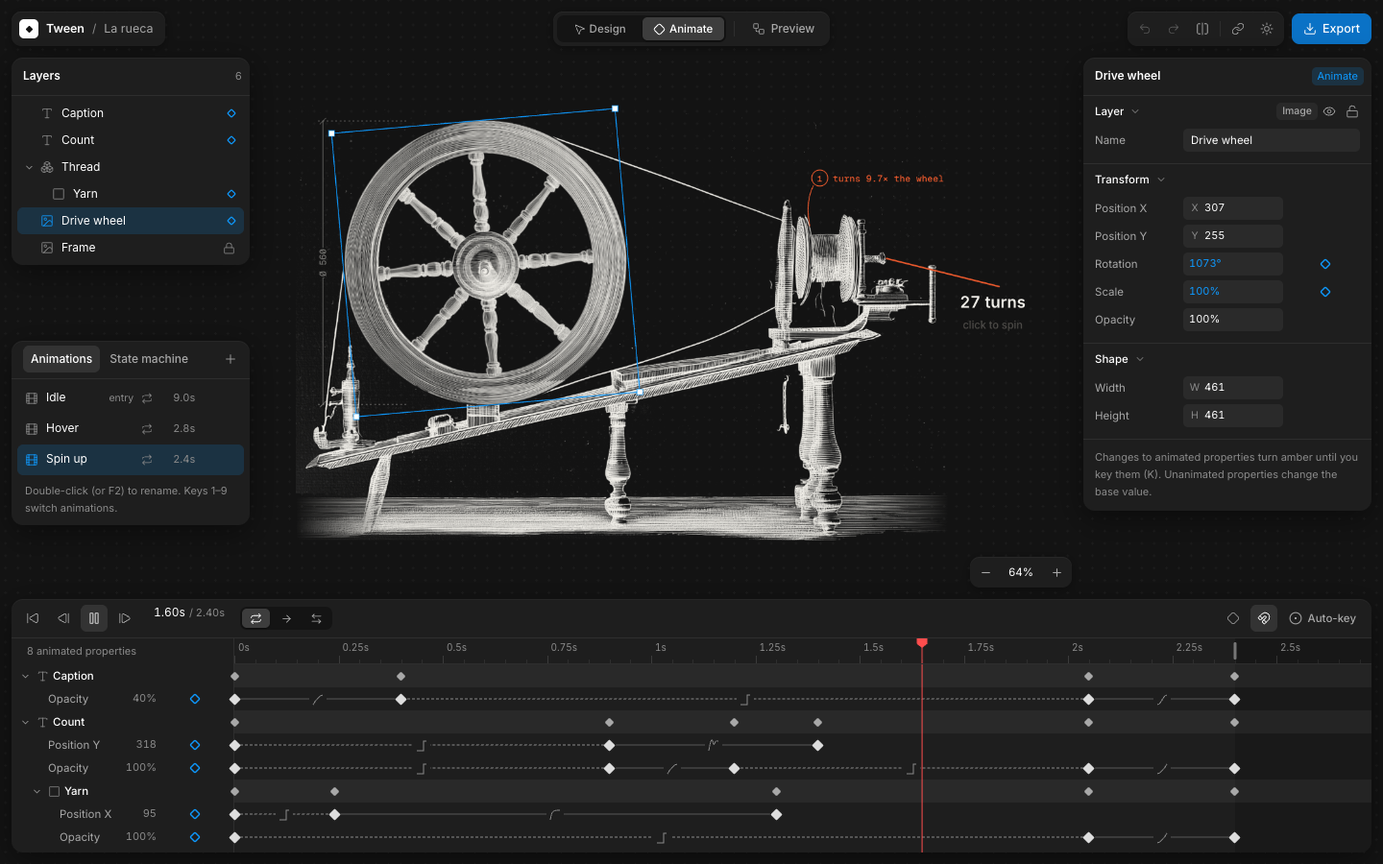
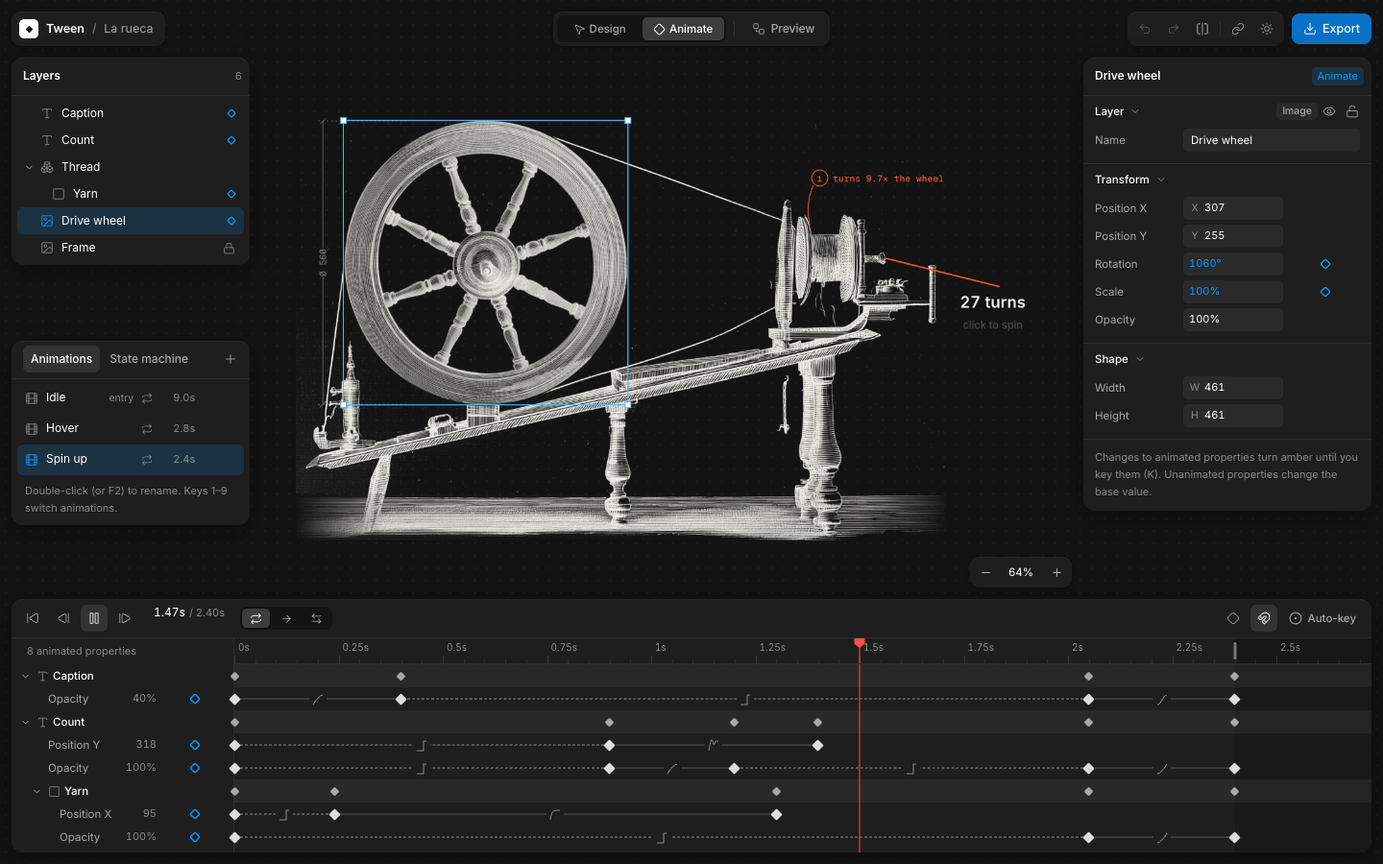
Animate: upright selection box on spinning objects; Cielo selection via a scoped --signal token on the scene (no hex in chrome code)

Changed region(s): [[0.25, 0.1244, 0.4688, 0.4978], [0.4375, 0.4356, 0.4688, 0.4667]]

diff --git a/src/shells/animate/SceneView.tsx b/src/shells/animate/SceneView.tsx
@@ -171,8 +171,13 @@ export function LiveScene({ svgRef }: { svgRef: React.RefObject<SVGSVGElement | 
     const el = sel && !preview ? (svg.querySelector(`[data-content="${sel}"]`) as SVGGraphicsElement | null) : null
     if (!el) { poly.setAttribute('visibility', 'hidden'); handles.current?.setAttribute('visibility', 'hidden'); return }
     const b = el.getBBox()
-    const m = el.getCTM()
+    let m = el.getCTM()
     if (!m) return
+    // a spinning object keeps an upright box: drop its own rotation, keep position, scale and every parent transform
+    const o = doc.objects.find((x) => x.id === sel)
+    const holder = el.parentElement as unknown as SVGGraphicsElement | null
+    const outer = (holder?.parentElement as unknown as SVGGraphicsElement | null)?.getCTM()
+    if (o?.spin && outer && r[o.id]) m = outer.translate(num(r[o.id].x), num(r[o.id].y)).scale(num(r[o.id].scale))
     const pts = [[b.x, b.y], [b.x + b.width, b.y], [b.x + b.width, b.y + b.height], [b.x, b.y + b.height]].map(([x, y]) => new DOMPoint(x, y).matrixTransform(m))
     poly.setAttribute('points', pts.map((q) => `${q.x},${q.y}`).join(' '))
     poly.setAttribute('visibility', 'visible')
@@ -237,9 +242,9 @@ export function LiveScene({ svgRef }: { svgRef: React.RefObject<SVGSVGElement | 
       <SceneSVG doc={doc} r={r} inputs={inputs} bg={[v.bgTop, v.bgBottom]} bare interactive={!preview} onObjectDown={onObjectDown} svgRef={svgRef} ghosts={ghosts} ghostOf={sel}>
         {!preview && <PenMarks doc={doc} r={r} />}
         <g data-overlay pointerEvents="none">
-          <polygon ref={outline} fill="none" stroke="var(--signal)" strokeWidth={1.5} vectorEffect="non-scaling-stroke" visibility="hidden" />
+          <polygon ref={outline} fill="none" stroke="var(--signal)" strokeWidth={2} vectorEffect="non-scaling-stroke" visibility="hidden" />
           <g ref={handles} visibility="hidden">
-            {[0, 1, 2, 3].map((i) => <rect key={i} fill="#fff" stroke="var(--signal)" strokeWidth={1} vectorEffect="non-scaling-stroke" />)}
+            {[0, 1, 2, 3].map((i) => <rect key={i} fill="#fff" stroke="var(--signal)" strokeWidth={1.5} vectorEffect="non-scaling-stroke" />)}
           </g>
         </g>
       </SceneSVG>

diff --git a/src/shells/animate/index.tsx b/src/shells/animate/index.tsx
@@ -13,7 +13,7 @@ import { KeyTimeline, type KeyLane } from '@kit/timeline/KeyTimeline'
 import { KeyButton, KeyDiamond } from '@kit/ui/key-button'
 import { EaseGlyph, EasingEditor } from '@kit/ui/easing'
 import { PROPS, PROPS_FOR, childrenOf, keyAt, objHasKeys, resolve, toCSSKeyframes, trackKey, type Anim, type Obj, type PropKey } from './engine'
-import { drawCanvas, inlineImages, loadImages } from './demo'
+import { CIELO, drawCanvas, inlineImages, loadImages } from './demo'
 import { LiveScene } from './SceneView'
 import { AnimInspector } from './AnimInspector'
 import { InputsList, StateMachineGraph, TransitionsList } from './local/StateMachinePanel'
@@ -531,7 +531,7 @@ export default function AnimateShell() {
       }>
         {/* no artboard: the plate sits straight on the canvas, its inks following the theme */}
         <div className="absolute [--plate-ink:#181411] [--plate-measure:rgba(24,20,17,.42)] [--plate-mute:#6E6A64] dark:[--plate-ink:#F3F1EB] dark:[--plate-measure:rgba(243,241,235,.42)] dark:[--plate-mute:#A39E96]"
-          style={{ left: 0, top: 0, width: doc.width, height: doc.height }} data-studio-artifact="">
+          style={{ left: 0, top: 0, width: doc.width, height: doc.height, '--signal': CIELO } as React.CSSProperties} data-studio-artifact="">
           <LiveScene svgRef={svgRef} />
         </div>
       </Stage>

diff --git a/src/shells/animate/demo.ts b/src/shells/animate/demo.ts
@@ -16,6 +16,8 @@ import { bindText, childrenOf } from './engine'
 const B = import.meta.env.BASE_URL
 export const ART = { frame: `${B}demo/animate/frame.webp`, wheel: `${B}demo/animate/wheel.webp` }
 const NOGAL = '#181411', MUTED = '#6E6A64', ACHIOTE = '#E8582C'
+/** the selection on the plate: set as --signal on the scene wrapper, so only the plate's selection is Cielo */
+export const CIELO = '#5DB4E8'
 
 const E = {
   lin: { kind: 'bezier', p: [0, 0, 1, 1] } as Ease,

diff --git a/brand/RUECA.md b/brand/RUECA.md
@@ -1,0 +1,227 @@
+# Rueca: brand spec
+
+The one reference for anyone, human or agent, making something that looks like Rueca. When this file and an older note disagree, this file wins. `BRAND.md` keeps the history: the naming rounds, Trompo and the early wire styles.
+
+**Status tags:** **[decided]** Rafael chose it. **[trial]** live, but may change. **[proposed]** waiting on Rafael. **[open]** not decided yet. If you build on something tagged proposed or open, say so in your hand-off.
+
+Last updated 2026-10-11. Owner: `brand/RUECA.md` and `brand/lamina/` belong to the Branding agent session. `BRAND.md`, `data.js`, `index.html` and `rueca.js` belong to the Rueca branding continuation session. If a foundation here changes something the landing page already uses (tokens, type), tell that session so `src/landing/landing.css` and the board stay in step.
+
+---
+
+## 1. The idea
+
+**Rueca** is Spanish for spinning wheel: raw fibre goes in, thread comes out. The tool does the same: a prompt or a prototype goes in, and a real design tool comes out. **Tagline: "Spin up a real tool."** [decided]
+
+**Direction: Lámina técnica** [decided 2026-10-11]. Rueca explains itself the way an 18th-century encyclopaedia explained a spinning wheel: one exact drawing with every part named. The drawing is old; what the parts are is new. Moodboard: `brand/moodboards/` (board I).
+
+**The rule under everything: there is always a tension between old and new.** It starts in the foundations and carries on up through components, patterns, imagery and motion. Every layer has an old half and a new half, and a layout needs both. A page that's only old reads as a museum shop; a page that's only new reads as any other SaaS.
+
+| Layer | Old | New |
+|---|---|---|
+| Colour | Lana paper, Nogal walnut ink, Rubia, engraved hatching | Flat, chalky brights in blocks (Achiote, Cielo, Malva…) |
+| Type | Serif display (book face, light weights) | IBM Plex Sans (engineering-manual grotesque) · Geist Mono for commands |
+| Hand | La Belle Aurore red-pen notes | – (the hand belongs to neither; it's the person) |
+| Line | Engraved hatching, plate borders, lettered parts | Neutral measure-pen construction lines, dimension marks, part numbers |
+| Components | Plates, figure captions, title blocks | Buttons, chips, the install command line |
+| Patterns | The labelled plate, the build guide | The live tool, the shell, the canvas |
+| Imagery | Engravings (Midjourney, Diderot style) | Flat colour behind or around them, UI frames |
+| Motion | Lines are drawn like ink | Colour blocks wipe in like a product |
+
+## 2. Foundations
+
+### Colour [decided; ramps and surfaces live in code]
+
+| Token | Hex (light) | Dark | Role |
+|---|---|---|---|
+| **Lana** | `#F3F1EB` | ground in dark: `#151210` | Paper. It carries the layout. |
+| **Platino** | `#DCDAD5` | `#383430` | Chrome, quiet panels, the "Figma made in the 90s" nod |
+| **Nogal** | `#181411` | text in dark: `#F3F1EB` | Ink. All drawing, all text. |
+| **Rubia** | `#5E2219` | `#5E2219` | The deep colour. Use it instead of black for dark blocks. |
+| **Achiote** | `#E8582C` | `#F06A3E` | Lead bright: the CTA and the red pen |
+| Cochinilla | `#EE7A68` | `#F38B79` | Bright |
+| Malva | `#A88BF6` | `#B39AF8` | Bright |
+| Cielo | `#5DB4E8` | `#6FC0EE` | Bright |
+| Hoja | `#2FA57C` | `#3DB68B` | Bright |
+| Gualda | `#F2C744` | `#F5D05A` | Bright |
+| **Añil** | `#3440C8` | `#8C95F0` | **[open]** No longer the measure pen (2026-10-11); its role is unassigned. Never a fill. |
+
+Six of the names are natural dyes (achiote, cochinilla, gualda, rubia, añil, nogal), and lana is wool. That story can be told; weaving can't (see Don'ts).
+
+Rules:
+1. Paper carries the layout. Brights are **flat blocks, one or two per layout**. All six together only in mark/system moments.
+2. On a bright, text is **Nogal, never white**.
+3. Rubia is the dark, not black.
+4. Achiote is the CTA. Product previews and `[data-studio-embed]` fall back to the kit's neutral tokens, and **the tools stay blue**.
+5. Tonal ramps 50–900 per family are in `brand/data.js` (`ruecaRamps`); regenerate with `brand/tools/ramps.mjs`. The neutral "Tierra" ramp runs from Lana (50) to Nogal (900).
+6. Site surfaces are slightly de-tinted so the shells' neutral UI sits well. See `.site` in `src/landing/landing.css`. Light: field `#f3f1eb`, panel `#faf8f4`, control `#ece9e2`, fg `#181411`, muted `#58524d`. Dark: field `#151210`, panel `#201c19`, fg `#f3f1eb`, muted `#b9b3ac`.
+7. The coloured kickers are retired (2026-10-11). Sections are now labelled by **title strips** (§3), in ink, not brights.
+
+### Type
+
+| Role | Face | Status |
+|---|---|---|
+| Display | **"Rueca Display"**: `local()` **Signifier** (Klim, trial), falling back to Newsreader. Previously Martina Plantijn, with an Alegreya fallback. | Face [trial] · weight [decided] |
+| Body / UI | **IBM Plex Sans** (OFL, `@fontsource-variable/ibm-plex-sans`, `--font-body: "IBM Plex Sans Variable"`). It was born in IBM's engineering documentation, so it's the technical-manual voice; Libre Franklin read too heavy under the light display. Runner-up: Instrument Sans. | [decided 2026-10-11] |
+| Hand | **La Belle Aurore** 400 (OFL, `@fontsource/la-belle-aurore`, latin), a fine-nib 18th–19th-century hand. It replaced Caveat on 2026-10-11 (options: `brand/references/fonts/hand-lamina.html`). | [decided] |
+| Code | **Geist Mono**, for commands and code only | [decided] |
+
+- **Display weight: 300–500 and never bold** [decided 2026-10-11]. Lámina lives in the light-to-medium range; the default is 400 with `font-synthesis: none`. Tracking is −0.02 to −0.025em at large sizes.
+- Hero h1: `clamp(56px, 11.5vw, 136px)`, leading 0.82. Section h2s are set at −0.02em.
+- Free fallbacks if the Klim licence doesn't happen: **Newsreader** (the current fallback), or **Old Standard TT**, which fits Lámina best conceptually. The comparison sheet is `brand/references/fonts/martina-alts.html`.
+- Display is for headings, step numerals and plate titles. Plex is for everything you read or click. The hand is for notes and filled-in values only (the red pen, title-strip values, captions on dimension lines), never for body copy or buttons.
+- Sentence case everywhere.
+
+### Line: three pens, three jobs [decided]
+
+| Pen | Colour | Job |
+|---|---|---|
+| Ink | Nogal | Draws the thing: outlines, hatching, text |
+| Measure | **Neutral ink** (2026-10-11, was Añil): `--measure` rgba(24,20,17,.42) / dark rgba(243,241,235,.4); crosshairs `--cross` #aba9a6 / #5b5855; ruler ticks `--tick` .3 and `--tick-minor` .11 (`src/landing/plate.css`) | Construction circles, dimensions, grids, crosshairs, rulers |
+| Correct | Achiote | La Belle Aurore notes, leader lines to notes, ✗, the circled letters A–D |
+
+Weights carry the hierarchy: **object 1.4 · detail 0.8 · hairline 0.5**, and hidden edges are dashed. **Lines stay lines:** no gradients, glows or neon, and no fills except hatching and the one flat bright.
+
+### Mark [decided]
+
+Rafael's two-wheel logo: a drive wheel and a spindle whorl joined by the band (`brand/moodboards/rueca-logo.svg`, `src/landing/parts.tsx`). It's in colour (Gualda band, Cielo wheel, Achiote whorl) with a serif wordmark. The mark-only crop is `viewBox="0 0 310 218"`. For one-colour, emboss or deboss uses, mask it.
+- **Drawing: "I · Pulido"** [decided]. The file's mark rebuilt on true geometry (`brand/logo/`): one 25-unit band on the external tangents of the two centres, the whorl centred in its loop, gaps 22.5 (wheel) / 19.5 (whorl), bottoms level. At ≤24px a heavier cut takes over (band 34, gaps 19 / 15). Files: `brand/logo/rueca-mark.svg`, `-small.svg`, `-dyed.svg`, `-light.svg`; the site's `Mark` and `public/favicon.svg` use it. Regenerate from `brand/logo/marks.js`. The band's two rings need `fill-rule: evenodd`.
+- **Wordmark: outlined, built from the mark** [decided]. The word fills the band's inner box, as Rafael's file had it: baseline on the band's inner bottom edge, x-height up to its inner top, weight 450 (500 in the small cut) so it carries the discs' mass, half an x-height between mark and word, tracking −0.045em (−0.025em in the small cut) plus pair adjustments (r–u −8, e–c −14, c–a +6 thousandths of an em; `PAIRS` in the generator). (A first rule, x-height = the whorl's loop with stems matched to the band, read small and light.) `brand/tools/outline_rueca.py` writes `src/landing/logo.generated.ts` and `brand/logo/rueca-lockup-{signifier,newsreader}-{regular,small}[-light].svg`. **The site ships the Signifier outlines** (Rafael's call; he is buying the Klim licence). `SHIP` in the generator switches to Newsreader (OFL) if that falls through.
+- **[decided 2026-10-11]** The palette tokens are canonical. The logo file is a work in progress (its hues `#F0BF11`, `#41ADDB` and `#EB4D1D` are not brand colours), so never sample colours from it. Anything coloured uses Gualda, Cielo and Achiote.
+
+### Voice [decided, unchanged]
+
+A good studio tech: calm, exact, a little warm. Name the thing ("inspector, timeline, layers"). Write short, plain sentences in sentence case. Show, don't adjective. No exclamation marks, and none of "supercharge", "magic" or "AI-powered". Craft words are welcome if explained once. Credit the shoulders (Toolcraft, Base UI, shadcn). Full table: `BRAND.md` → Voice.
+
+## 3. Components
+
+| Component | Spec | Status |
+|---|---|---|
+| CTA | Achiote block, Nogal text, Plex 600 | [decided] |
+| Install command | Geist Mono in a quiet chip (`rgba(ink,.06)`), on one row with the CTA | [decided] |
+| Title strip | Each section opens with a strip like a drawing sheet's title block: printed small-caps fields (No. · Title · Sheet) with **handwritten values** (`<Hand>`, `var(--font-hand)`, which lean slightly as if filled in with a pen). `src/landing/plate.tsx` → `TitleStrip`, `Field`, `Hand`. It replaced the coloured kickers. | [decided 2026-10-11] |
+| Sheet layout | The landing is one drawing sheet: hairline rules with **neutral crosshairs** (`--cross`) where they meet, ruler ticks in the margins, engraved hatching in spare corners (`Sheet`, `Row`, `Cross`, `Hatch` in `plate.tsx` + `plate.css`). The footer is a title block. | [decided 2026-10-11] |
+| Dimension line | Measure pen (neutral `--measure`): end ticks, arrows and the measured width in the middle (`DimLine`). Used on the hero preview, with a handwritten caption. | [decided 2026-10-11] |
+| Figure / plate | Double-ruled frame, image or engraving inside, italic Plex caption "Fig. n · …" | [proposed] |
+| Part tag | Plex 9.5px tabular in a hairline box (`101`); quantity before it (`3×`) | [proposed] |
+| Lettered callout | Achiote circle with a La Belle Aurore letter, joined to its part by an Achiote leader | [decided in the moodboard] |
+| Title block | A row of cells: label in small caps, value below (project / shell / drawing / sheet / scale / drawn by) | [proposed] |
+| Step numeral | Display face, 400, large, in a panel's top-left corner | [proposed] |
+| Chips | Hairline pill on a 5% ink tint | [decided] |
+
+## 4. Patterns
+
+- **The plate** [decided]: one exact drawing with lettered parts, measure-pen construction lines, one or two red-pen notes and a figure caption. Letters A–D name the product's parts: A the skill, B the prompt, C the kit, D the twelve shells.
+- **The build guide** [live on the landing as *How it works*, 2026-10-11; `src/landing/art/StepArt.tsx`, generated from `brand/illustration-trials/anatomy/` (`steps.mjs`, `shared.mjs`)]: three isometric engraved plates on one harness tray. 1: a prompt card whose controls drop into an inspector. 2: a Cielo cartridge lowering into the slot. 3: a cursor dragging the Achiote fader cap. The new part in each plate is its one flat bright. (The earlier flat-pack study is `brand/lamina/manual/` sheet 3.)
+- **The spec sheet** [live on the landing as the kit cards, 2026-10-11; now isometric engravings, `src/landing/art/KitArt.tsx`]: each kit group is a drawn spec sheet with part tags and **one bright per group**: Controls Achiote, Layout Cielo, Time Gualda, Structure Malva, Working Hoja, Hand-off Cochinilla. The shells' artboards follow the same idea (§5, proposed).
+- **Exploded view** [live on the kit cards]: parts lift straight off their slots along one axis (on scroll or hover), leaving dashed ghosts and guides. It can also become a shell interaction ("Explode") [proposed].
+- **WheelField** [retired from the hero 2026-10-11; kept as a pattern study]: Rafael removed the hero background. `src/landing/WheelField.tsx` still exists, pending his call on deleting it. Spec, in case it returns as a pattern: the logo's two wheels are dash lattices whose dashes turn in place; the band is dashed contour rings (offset 15 + 18i + 0.8i²) whose dashes run like a belt at rim speed; faint ink (.18 light / .14 dark) behind a radial mask. Rafael rejected a whole rotating wheel, a fully abstract field and strings that only tilt.
+
+## 5. The wireframe style v3: "the manual" [proposed, awaiting Rafael]
+
+The placeholders inside the shells are the **only branded thing in the shells**, so they carry the brand into the product. v1 ("the harness, drawn") and v2 (drafting polish) treated them as wireframes. v3 treats them as a **flat-pack build guide or spec sheet**: every placeholder is a numbered part, every artboard is a sheet. Study: **`brand/lamina/manual/`** (`manual.js` holds the painters, `sheets.js` the sheets). **Polish rules:** `brand/manual-art-rules.md` has 14 rules distilled from IKEA, ISO 128 and illustration practice. `brand/manual-audit.ts` measures rendered SVGs against them. Follow both for any manual-style drawing.
+
+Rules:
+1. **Every placeholder is a part.** It has a number tag (101, 204), and repeats carry a quantity (3×). The number replaces the label.
+2. **Ink is built, colour is new.** Everything is Nogal line on Lana. The one part a step adds, or the primary action, is a flat bright, never more than one per sheet.
+3. **Line weight is the hierarchy** (1.4 / 0.8 / 0.5, hidden edges dashed). No fills except hatching and the one bright.
+4. **Text is engraved.** Headings are hatched bars, body copy is hairlines with a short last line. Use real words only where words are the point.
+5. **Pictures are plates.** An image slot is a double-ruled frame with an engraved shadow band and a "Fig." caption. Where a real picture helps, use the one **signature engraving** recoloured to Nogal (Cargo's trick: one picture, repeated).
+6. **Three pens, three jobs** (§2).
+7. **Wordless where possible.** Steps are display numerals, actions are arrows, and **the hand** stands in for IKEA's little man. Use ✓ in ink and ✗ in Achiote.
+8. **Every sheet is a document:** double-ruled frame, crop marks, parts list and title block.
+
+Part numbers: **1xx** placeholder parts (101 image, 102 signature image, 103 heading + body, 104 button, 105 avatar, 106 video, 107 chart, 108 icon, 109 empty slot, 110 the hand). **2xx** a shell's own assemblies. **3xx** build-guide steps (302 prompt, 304–306 controls). **4xx** kit components on the landing, by group: 41x Controls, 42x Layout, 43x Time, 44x Structure, 45x Working, 46x Hand-off. A sheet never has inner frames or crosshairs inside a drawing; the crosshairs belong to the sheet's rules.
+
+**Implementation, after approval:** these painters replace `wireImage`, `blankSheet` and `ditherTop` in `src/demo/wire.ts`. The dithered spinning top is retired, and the signature image becomes the engraved rueca. The 12 shells already call `src/demo/wire.ts` (wire rollout, uncommitted), so the swap is mostly in one file, plus shell-specific redraws. Coordinate with the OG agent session before touching `src/shells`.
+
+## 6. Illustration [proposed: both takes, each with a job]
+
+Rafael will draw or direct the final pictures. Both takes use the same subject list: the wheel at rest, the wheel exploded A–D, the flyer close-up, hands at the wheel, and modern tools drawn as plates.
+
+**Take A, isometric line** [exploring]: made with the **Anatomy** skill (`~/.claude/skills/anatomy`, shaded isometric solids with live readouts) and the **Hairline** skill (`~/.claude/skills/hairline-create`, single-stroke isometric line). Variations are in `brand/lamina/illustration/anatomy/` and `.../hairline/`.
+
+**Take B, true to the engravings** [exploring, strong]: Midjourney, using a **public-domain Diderot plate as the image style reference** instead of a code. It's stable because the URL is Wikimedia's:
+
+```
+<subject>, copperplate engraving, 18th-century encyclopedia technical plate, fine parallel hatching,
+single dark ink on warm off-white laid paper, small engraved letters labelling the parts, thin plate border,
+generous white space --no photograph, 3d render, color --ar 4:5 --seed 4417
+--sref https://upload.wikimedia.org/wikipedia/commons/thumb/a/a3/Textiles%3B_spinning-wheel_with_various_components_used_in_the_Wellcome_V0023697ER.jpg/1280px-Textiles%3B_spinning-wheel_with_various_components_used_in_the_Wellcome_V0023697ER.jpg
+```
+
+- It carries over to modern subjects: laptops and synthesizers come out as believable plates, and that's the old/new tension in one picture.
+- Adding the Eastgate plate as a second sref gives darker, more modelled wheels. The Diderot plate alone is crisper and airier.
+- `--sref random` missed both times (one photographic, one cartoon woodcut).
+- **Post-process every output:** recolour to Nogal ink on transparent (luminance → alpha, auto-levels, see `inked()` in `brand/lamina/manual/sheets.js`). That way it sits on Lana like a print and the measure pen and Achiote can draw on top.
+- Results so far: `brand/lamina/illustration/midjourney/`, prefixed b1–b3 by batch.
+
+**Isometric engravings, and pairing them with line** [proposed]: the Diderot sref pulls Midjourney toward flat side views, so for isometric, drop the sref and ask for the engraving in words:
+
+```
+true isometric projection of <subject> seen from above, 30 degree axonometric, like a patent drawing or an IKEA assembly diagram,
+copperplate engraving with fine parallel hatching, single black ink on white, isolated object on plain white, no floor
+--no photograph, 3d render, color, perspective, border, shadow --ar 4:3 --seed 4417
+```
+
+This puts Hairline's line and the engraving on the same 30° grid, so they can share one sheet (shared isometric axes in the measure pen): **line explains how it's built (new), the engraving shows what it is (old)**. In a build guide the steps are line, the final "assembled" panel is the engraving, and shared isometric axes in the measure pen tie them together. Study: `brand/lamina/illustration/` → "Line + engraving, same angle". The Hairline art is exported as SVG and recoloured to Nogal (`hairline/line-*-ink.svg`).
+
+**In the product: the animate shell's demo** [built 2026-10-11, the first shell in the hero]: the "1A" idea (the tool working on an old plate) made real. An engraved Saxony wheel, built from two Midjourney parts made one by one and upscaled: the frame with its wheel cut away, and a face-on drive wheel that turns on the same axle (`public/demo/animate/`, ink on transparent). It sits straight on the canvas with no artboard, and its ink follows the theme (Nogal on light, Lana on dark). The tool's own selection, keys and states do the "new". The Achiote thread draws out of the orifice on *Spin up*.
+
+**Recommendation** (comparison: `brand/lamina/illustration/`):
+- **Engraving = what it is (old).** Use it for the signature image, hero plates, hands and finished objects.
+- **Hairline line = how it's built (new).** Use it for build-guide steps, diagrams and anything that animates.
+- Put them together on the same isometric grid.
+- **Anatomy** is a special-occasion interactive piece: the flyer close-up as the "one push, many turns" moment. It is not the house style. Its smooth shading reads as product art, not copperplate, and a figure takes about an hour and a 2 MB page.
+
+Rules for either take: one ink, no gradients, letters A–D in Achiote, construction in the measure pen. At most one flat bright block may sit behind or beside the drawing (for example a Malva block behind a hands engraving), and that block is the "new" half.
+
+## 7. Motion [proposed; research: `brand/lamina/motion-research.md`]
+
+**Tools:** **Motion 14** is already installed and covers line drawing (`pathLength`), scroll, springs and reduced motion, so no new library is needed. Use CSS scroll timelines for simple draw-ins. **GSAP stays out of the kit and the shells** because of its licence clause about visual builders. **[open]** Install Emil Kowalski's `animate` + `review-animations` skills (free, MIT, text only).
+
+Rules (starting numbers; Rafael tunes the feel):
+1. **Lines are drawn, never faded.** Order: measure-pen construction, then Nogal outline, then leaders, then letters and notes.
+2. **The pen has a speed, not a duration.** Strokes take 0.4–1.2 s depending on length, on a soft start and stop (`cubic-bezier(0.65, 0, 0.35, 1)`). A whole plate takes about 2.5 s, one stroke at a time per region.
+3. **A label waits for its line.** It appears at about 85% of its leader: a 150–200 ms fade with no movement.
+4. **Exploded parts slide along their own axis on springs** (`visualDuration 0.6, bounce 0.1`), staggered 35 ms, outer parts first out and last home.
+5. **Two clocks:** steps and tabs get a 500–700 ms ease-out (`.32, .72, 0, 1`); anything that follows the pointer or scroll gets a spring.
+6. **Only the wheel turns:** the spin-up spinner (and WheelField, if it ever comes back). Nothing else loops, pulses or glows.
+7. **Old moves like ink, new moves like a product.** Engraved lines draw; flat colour blocks wipe in (clip-path) or fade in ≤ 250 ms.
+8. **Plate theatrics are for rare moments** (landing, empty states, first run). Shell UI stays under 250 ms, and anything triggered from the keyboard doesn't animate.
+9. **Reduced motion shows the finished plate:** everything drawn, labels placed, the wheel still.
+10. **No scroll-jacking.** Reveals fire once.
+
+## 8. Don'ts
+
+- No weaving, looms or cloth (Weaver is a crowded space). Show the wheel, the hand and the dye, never the fabric.
+- No bold display type.
+- No white text on a bright. No Añil fills, and Añil is no longer the measure pen. Never more than two bright blocks per layout outside mark moments.
+- No gradients, glows, neon or glossy 3D. Lines stay lines.
+- No mascot wheel or cartoon wheel. The wheel is always an exact drawing.
+- No sketchy or Balsamiq hand-drawn UI. The hand is red-pen notes only, and the drawing is always exact.
+- Don't publish third-party references: `brand/references/` is git-ignored, and the moodboard pages hotlink them for study only.
+
+## 9. Where things are
+
+| What | Where |
+|---|---|
+| This spec | `brand/RUECA.md` |
+| History, naming, voice table | `brand/BRAND.md` |
+| Board (palette, ramps, Trove patterns, directions) | `brand/index.html` → `#rueca`, data in `brand/data.js` |
+| Moodboards (five directions) | `brand/moodboards/` |
+| Manual wire style study | `brand/lamina/manual/` |
+| Illustration takes | `brand/lamina/illustration/{anatomy,hairline,midjourney}/` |
+| Motion research | `brand/lamina/motion-research.md` |
+| Landing tokens | `src/landing/landing.css` (`.site`) |
+| Landing sheet layout | `src/landing/plate.tsx` + `plate.css` (Packaging) |
+| Retired hero texture (study) | `src/landing/WheelField.tsx` |
+| Demo placeholders in the shells | `src/demo/wire.ts` (v2 today; v3 pending) |
+| Rueca skill (accent rule, visual rules) | `skills/rueca/` |
+
+## 10. Open decisions
+
+1. Display face: Signifier (Klim trial), Martina Plantijn or a free fallback, plus the licence.
+2. Illustration: the proposal is both takes (engraving for objects, line for steps) plus one Anatomy explainer. Approve it, or pick one.
+3. Wire style v3 "the manual" inside the shells: the landing already uses it (How it works, kit cards). Approve it before it replaces `src/demo/wire.ts`.
+4. Whether to install Emil Kowalski's motion skills.
+5. Añil's role, now that the measure pen is neutral ink: retire it from the palette or give it a new job.
